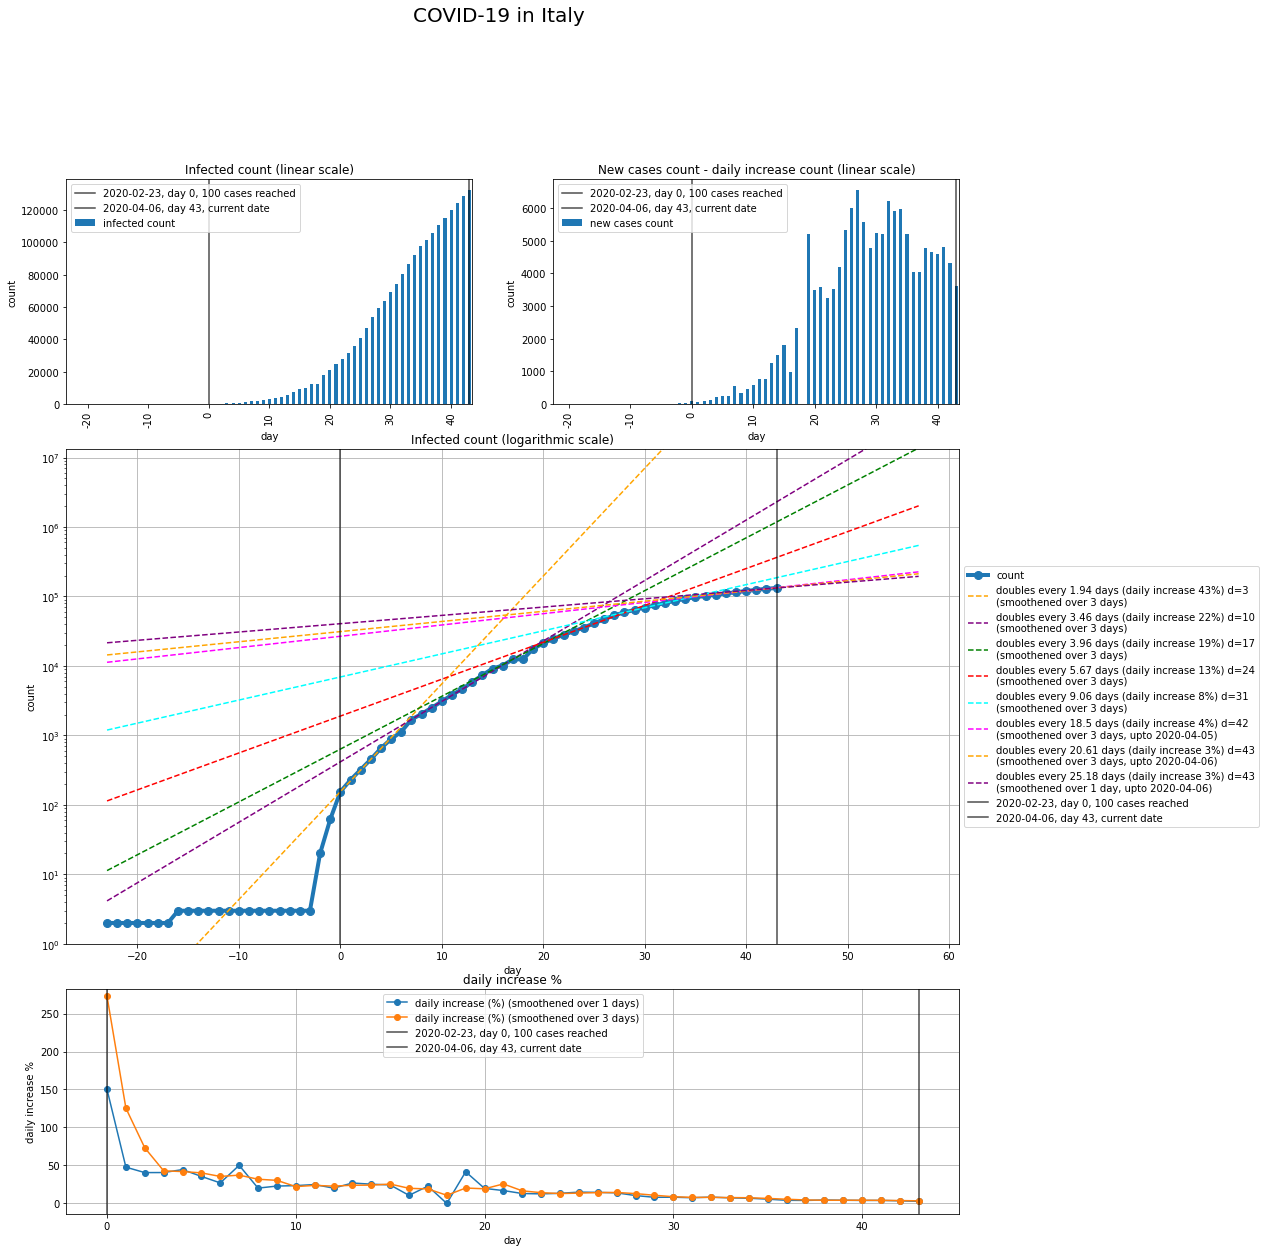
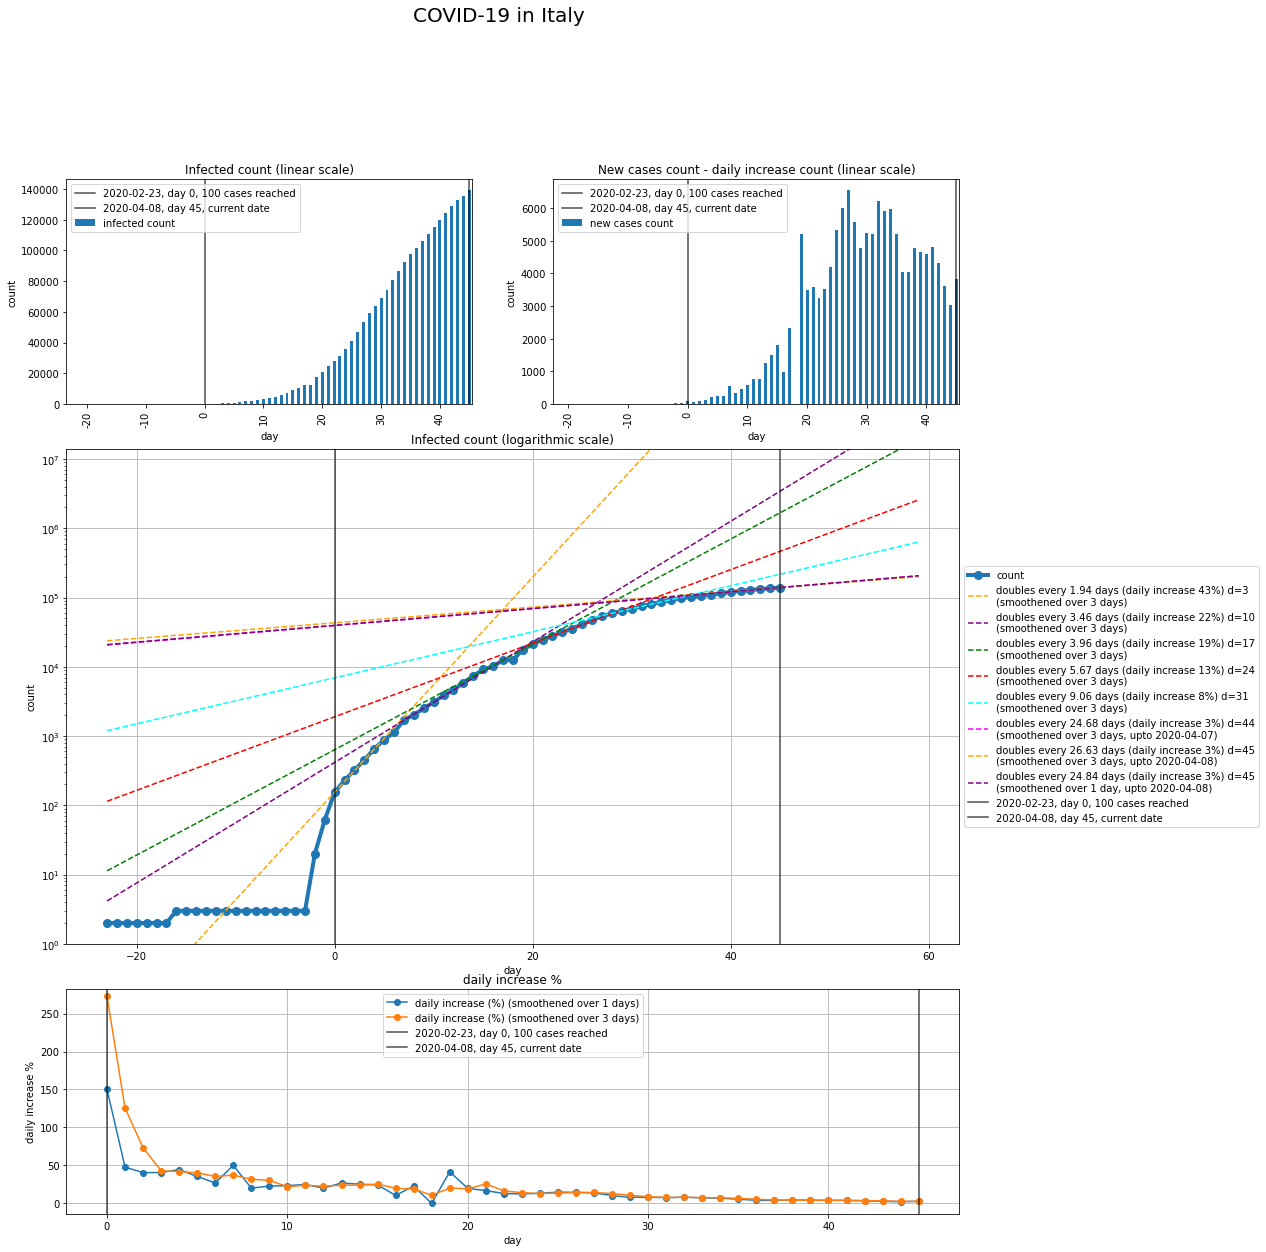
Updated the graphs and comments up to 08-04-2020

diff --git a/covid/index.html b/covid/index.html
@@ -68,7 +68,7 @@ Clustering COVID-19 around the world with DBSCAN algorithm
 <li>with ε /2 to divide the biggest clusters</li>
 <li>with 2 ε  to additionally cluster noise points outside any cluster</li>
 </ul>
-<p>From all the countries in the world I kept 65 countries which:</p>
+<p>From all the countries in the world I kept 73 countries which:</p>
 <ul>
 <li>population of at least 1 million</li>
 <li>have reached at least 10 cases per million inhabitants at least 2 weeks ago</li>
@@ -81,112 +81,171 @@ Clustering COVID-19 around the world with DBSCAN algorithm
 .tg  {border-collapse:collapse;border-spacing:0;}
 .tg td{font-family:Arial, sans-serif;font-size:14px;padding:10px 5px;border-style:solid;border-width:1px;overflow:hidden;word-break:normal;border-color:black;}
 .tg th{font-family:Arial, sans-serif;font-size:14px;font-weight:normal;padding:10px 5px;border-style:solid;border-width:1px;overflow:hidden;word-break:normal;border-color:black;}
+.tg .tg-ul38{text-align:left;vertical-align:top;position:sticky;position:-webkit-sticky;top:-1px;will-change:transform}
+.tg .tg-j1i3{border-color:inherit;text-align:left;vertical-align:top;position:sticky;position:-webkit-sticky;top:-1px;will-change:transform}
+.tg .tg-0pky{border-color:inherit;text-align:left;vertical-align:top}
 .tg .tg-0lax{text-align:left;vertical-align:top}
 </style>
 <table class="tg">
   <tr>
-    <th class="tg-0lax"><br>			cluster<br>		</th>
-    <th class="tg-0lax"><br>			countries<br>		</th>
-    <th class="tg-0lax"><br>			cluster description<br>		</th>
-    <th class="tg-0lax"><br>			mean GDP per capita ($) (nominal)<br>		</th>
-    <th class="tg-0lax"><br>			mean daily increase % week_0<br>		</th>
-    <th class="tg-0lax"><br>			mean daily increase % week_1<br>		</th>
-    <th class="tg-0lax"><br>			mean infected count per million<br>			week_0<br>		</th>
-    <th class="tg-0lax"><br>			mean infected count per million<br>			week_1<br>		</th>
+    <th class="tg-j1i3">cluster</th>
+    <th class="tg-j1i3">countries</th>
+    <th class="tg-j1i3">cluster description</th>
+    <th class="tg-j1i3">GDP per capita ($) (nominal)</th>
+    <th class="tg-j1i3">average yearly temperature (degree Celsius)</th>
+    <th class="tg-j1i3">daily increase % week_0</th>
+    <th class="tg-j1i3">daily increase % week_1</th>
+    <th class="tg-j1i3">daily increase % week_2</th>
+    <th class="tg-ul38">infected count per million week_0</th>
+    <th class="tg-ul38">infected count per million week_1</th>
+    <th class="tg-ul38">infected count per million week_2</th>
   </tr>
   <tr>
-    <td class="tg-0lax"><br>			outside cluster<br>		</td>
-    <td class="tg-0lax"><br>			Bahrain, China, Denmark, Estonia,<br>			Israel, Korea, South, Kuwait, Qatar, Singapore, Slovenia, Trinidad<br>			and Tobago, Uruguay, US<br>		</td>
-    <td class="tg-0lax"><br>			Noise points not belongig to any<br>			cluster<br>		</td>
-    <td class="tg-0lax"><br>			38553<br>		</td>
-    <td class="tg-0lax"><br>			38%<br>		</td>
-    <td class="tg-0lax"><br>			14%<br>		</td>
-    <td class="tg-0lax"><br>			79<br>		</td>
-    <td class="tg-0lax"><br>			255<br>		</td>
+    <td class="tg-0pky">outside cluster</td>
+    <td class="tg-0pky">Bahrain, China, Denmark, Djibouti, Estonia, Israel, Lebanon, Oman, Qatar, Slovenia, Trinidad and Tobago, US, Kosovo</td>
+    <td class="tg-0pky">noise points not belonging to any cluster</td>
+    <td class="tg-0pky">30331</td>
+    <td class="tg-0pky">17</td>
+    <td class="tg-0pky">38%</td>
+    <td class="tg-0pky">15%</td>
+    <td class="tg-0pky">10%</td>
+    <td class="tg-0lax">79</td>
+    <td class="tg-0lax">257</td>
+    <td class="tg-0lax">741</td>
   </tr>
   <tr>
-    <td class="tg-0lax"><br>			cluster 0<br>		</td>
-    <td class="tg-0lax"><br>			Austria, Portugal, Spain,<br>			Switzerland<br>		</td>
-    <td class="tg-0lax"><br>			Spain and alike. Countries with<br>			extremely high number of cases. Very high increases 40% in the<br>			week 0. Slowed down to 24% in week 1.<br>		</td>
-    <td class="tg-0lax"><br>			46682<br>		</td>
-    <td class="tg-0lax"><br>			40%<br>		</td>
-    <td class="tg-0lax"><br>			24%<br>		</td>
-    <td class="tg-0lax"><br>			79<br>		</td>
-    <td class="tg-0lax"><br>			352<br>		</td>
+    <td class="tg-0pky">cluster 0</td>
+    <td class="tg-0pky">Ireland, Norway, Turkey</td>
+    <td class="tg-0pky">extremely high increase in week 0 (43%) and quite efficient slowing down in week 1 (but still high - 19%)</td>
+    <td class="tg-0pky">54901</td>
+    <td class="tg-0pky">7</td>
+    <td class="tg-0pky">43%</td>
+    <td class="tg-0pky">19%</td>
+    <td class="tg-0pky">11%</td>
+    <td class="tg-0lax">92</td>
+    <td class="tg-0lax">309</td>
+    <td class="tg-0lax">658</td>
   </tr>
   <tr>
-    <td class="tg-0lax"><br>			cluster 1<br>		</td>
-    <td class="tg-0lax"><br>			Ireland, Norway, Turkey<br>		</td>
-    <td class="tg-0lax"><br>			Very similar to Spanish cluster.<br>			Very high increases in week 0. Slowing down in the week 1 more<br>			efficiently than cluster 0. <br>			<br>		</td>
-    <td class="tg-0lax"><br>			54901<br>		</td>
-    <td class="tg-0lax"><br>			43%<br>		</td>
-    <td class="tg-0lax"><br>			19%<br>		</td>
-    <td class="tg-0lax"><br>			92<br>		</td>
-    <td class="tg-0lax"><br>			309<br>		</td>
+    <td class="tg-0pky">cluster 1</td>
+    <td class="tg-0pky">Armenia, Australia, Austria, Belgium, Bosnia and Herzegovina, Chile, Croatia, Czechia, Finland, Germany, Lithuania, Moldova, Portugal, Romania, Serbia, Spain, Switzerland</td>
+    <td class="tg-0pky">High increases in week 0 (31%) followed by high increase in week 1 (18%) This is quite diverse cluster and cluster 2 and cluster 3 are subparts of it with more specific behaviour. However it contains a lot of Western European countries with moderate climate and quite high GDP</td>
+    <td class="tg-0pky">28674</td>
+    <td class="tg-0pky">9</td>
+    <td class="tg-0pky">31%</td>
+    <td class="tg-0pky">18%</td>
+    <td class="tg-0pky">13%</td>
+    <td class="tg-0lax">59</td>
+    <td class="tg-0lax">203</td>
+    <td class="tg-0lax">518</td>
   </tr>
   <tr>
-    <td class="tg-0lax"><br>			cluster 2<br>		</td>
-    <td class="tg-0lax"><br>			Belgium, Canada, France, Italy,<br>			Netherlands, Panama, United Kingdom<br>		</td>
-    <td class="tg-0lax"><br>			Italy and similar. Slightly slower<br>			than Spain but still the average growth in week 0 was 29%<br>		</td>
-    <td class="tg-0lax"><br>			39390<br>		</td>
-    <td class="tg-0lax"><br>			29%<br>		</td>
-    <td class="tg-0lax"><br>			22%<br>		</td>
-    <td class="tg-0lax"><br>			46<br>		</td>
-    <td class="tg-0lax"><br>			184<br>		</td>
+    <td class="tg-0pky">cluster 2</td>
+    <td class="tg-0pky">Canada, France, Italy, Netherlands, Panama, United Kingdom</td>
+    <td class="tg-0pky">High increases in week 0 (29%) not slowed down much in week 1 (22%). High GDP (Western Europe mostly) and moderate climate</td>
+    <td class="tg-0pky">38426</td>
+    <td class="tg-0pky">10</td>
+    <td class="tg-0pky">29%</td>
+    <td class="tg-0pky">22%</td>
+    <td class="tg-0pky">15%</td>
+    <td class="tg-0lax">46</td>
+    <td class="tg-0lax">182</td>
+    <td class="tg-0lax">482</td>
   </tr>
   <tr>
-    <td class="tg-0lax"><br>			cluster 3<br>		</td>
-    <td class="tg-0lax"><br>			Armenia, Australia, Bosnia and<br>			Herzegovina, Chile, Croatia, Czechia, Finland, Germany, Lithuania,<br>			Moldova, Romania, Serbia<br>		</td>
-    <td class="tg-0lax"><br>			Countries similar to cluster 1 and 2<br>			but with no such sharp distinction from the others.<br>		</td>
-    <td class="tg-0lax"><br>			21296<br>		</td>
-    <td class="tg-0lax"><br>			29%<br>		</td>
-    <td class="tg-0lax"><br>			16%<br>		</td>
-    <td class="tg-0lax"><br>			54<br>		</td>
-    <td class="tg-0lax"><br>			154<br>		</td>
+    <td class="tg-0pky">cluster 3</td>
+    <td class="tg-0pky">Dominican Republic, Ecuador, Iran, Latvia, Mauritius, New Zealand, North Macedonia, Sweden</td>
+    <td class="tg-0pky">Extremely high incease in week 0 (36%) slowed down more efficiently to 12%. Much lower GDP than cluster 2 and 1</td>
+    <td class="tg-0pky">18611</td>
+    <td class="tg-0pky">14</td>
+    <td class="tg-0pky">36%</td>
+    <td class="tg-0pky">12%</td>
+    <td class="tg-0pky">8%</td>
+    <td class="tg-0lax">68</td>
+    <td class="tg-0lax">152</td>
+    <td class="tg-0lax">266</td>
   </tr>
   <tr>
-    <td class="tg-0lax"><br>			cluster 4<br>		</td>
-    <td class="tg-0lax"><br>			Dominican Republic, Ecuador, Iran,<br>			Latvia, Mauritius, New Zealand, North Macedonia, Sweden<br>		</td>
-    <td class="tg-0lax"><br>			Very fast daily increase in the week<br>			0 - 36%. Slowed down a lot in the week 1. Perhaps due to lower<br>			testing capacity.<br>		</td>
-    <td class="tg-0lax"><br>			18611<br>		</td>
-    <td class="tg-0lax"><br>			36%<br>		</td>
-    <td class="tg-0lax"><br>			12%<br>		</td>
-    <td class="tg-0lax"><br>			68<br>		</td>
-    <td class="tg-0lax"><br>			152<br>		</td>
+    <td class="tg-0pky">cluster 4</td>
+    <td class="tg-0pky">Greece, Korea, South, Uruguay</td>
+    <td class="tg-0pky">High increase in week 0 (28%) followed by slowing down to 12%</td>
+    <td class="tg-0pky">22811</td>
+    <td class="tg-0pky">15</td>
+    <td class="tg-0pky">28%</td>
+    <td class="tg-0pky">12%</td>
+    <td class="tg-0pky">5%</td>
+    <td class="tg-0lax">48</td>
+    <td class="tg-0lax">105</td>
+    <td class="tg-0lax">140</td>
   </tr>
   <tr>
-    <td class="tg-0lax"><br>			cluster 5<br>		</td>
-    <td class="tg-0lax"><br>			Bulgaria, Costa Rica, Greece,<br>			Hungary, Malaysia, Poland, Saudi Arabia, Slovakia<br>		</td>
-    <td class="tg-0lax"><br>			Mostly Central Eastern Europe<br>			cluster. Consistently slower daily increases (21% and 10%) than<br>			Western&nbsp;&nbsp;Europe.<br>		</td>
-    <td class="tg-0lax"><br>			15927<br>		</td>
-    <td class="tg-0lax"><br>			21%<br>		</td>
-    <td class="tg-0lax"><br>			10%<br>		</td>
-    <td class="tg-0lax"><br>			33<br>		</td>
-    <td class="tg-0lax"><br>			67<br>		</td>
+    <td class="tg-0pky">cluster 5</td>
+    <td class="tg-0pky">Azerbaijan, Bulgaria, Costa Rica, Hungary, Malaysia, Poland, Saudi Arabia, Slovakia, Tunisia</td>
+    <td class="tg-0pky">A lot of Central Eastern European countries and countries with warm climate. Countries started slower from the beginning (21%) and decreased to 10% in week 1. Moderate average GDP.</td>
+    <td class="tg-0pky">12824</td>
+    <td class="tg-0pky">16</td>
+    <td class="tg-0pky">21%</td>
+    <td class="tg-0pky">10%</td>
+    <td class="tg-0pky">6%</td>
+    <td class="tg-0lax">33</td>
+    <td class="tg-0lax">65</td>
+    <td class="tg-0lax">94</td>
   </tr>
   <tr>
-    <td class="tg-0lax"><br>			cluster 6<br>		</td>
-    <td class="tg-0lax"><br>			Albania, Brazil, Lebanon, Peru,<br>			United Arab Emirates<br>		</td>
-    <td class="tg-0lax"><br>			Countries with warm climate.<br>			Consistently slower daily increases (14% and 15%) with little<br>			slowing down between week 0 and week 1.<br>		</td>
-    <td class="tg-0lax"><br>			13723<br>		</td>
-    <td class="tg-0lax"><br>			14%<br>		</td>
-    <td class="tg-0lax"><br>			15%<br>		</td>
-    <td class="tg-0lax"><br>			22<br>		</td>
-    <td class="tg-0lax"><br>			58<br>		</td>
+    <td class="tg-0pky">cluster 6</td>
+    <td class="tg-0pky">Albania, Brazil, Peru, United Arab Emirates</td>
+    <td class="tg-0pky">Countries which kept the increase at around 14% for 3 weeks.&nbsp;&nbsp;Warm climate.</td>
+    <td class="tg-0pky">14741</td>
+    <td class="tg-0pky">21</td>
+    <td class="tg-0pky">14%</td>
+    <td class="tg-0pky">15%</td>
+    <td class="tg-0pky">13%</td>
+    <td class="tg-0lax">22</td>
+    <td class="tg-0lax">60</td>
+    <td class="tg-0lax">167</td>
   </tr>
   <tr>
-    <td class="tg-0lax"><br>			cluster 7<br>		</td>
-    <td class="tg-0lax"><br>			Georgia, Jordan, Oman, Thailand,<br>			West Bank and Gaza<br>		</td>
-    <td class="tg-0lax"><br>			Countries with warm climate.<br>			Consistently slower daily increases (13% and 8%) with slowing down<br>			between week 0 and week 1.<br>		</td>
-    <td class="tg-0lax"><br>			7491<br>		</td>
-    <td class="tg-0lax"><br>			13%<br>		</td>
-    <td class="tg-0lax"><br>			8%<br>		</td>
-    <td class="tg-0lax"><br>			20<br>		</td>
-    <td class="tg-0lax"><br>			34<br>		</td>
+    <td class="tg-0pky">cluster 7</td>
+    <td class="tg-0pky">Argentina, Jordan, South Africa, Thailand</td>
+    <td class="tg-0pky">Similar start to cluster 6 (15%) with slowing down in week 1. Warm climate.</td>
+    <td class="tg-0pky">7041</td>
+    <td class="tg-0pky">19</td>
+    <td class="tg-0pky">15%</td>
+    <td class="tg-0pky">5%</td>
+    <td class="tg-0pky">NaN</td>
+    <td class="tg-0lax">22</td>
+    <td class="tg-0lax">32</td>
+    <td class="tg-0lax">NaN</td>
+  </tr>
+  <tr>
+    <td class="tg-0lax">cluster 8</td>
+    <td class="tg-0lax">Georgia, Japan, West Bank and Gaza</td>
+    <td class="tg-0lax">Countries which kept the increase at around 9% for 3 weeks. Very diverse economically</td>
+    <td class="tg-0lax">16111</td>
+    <td class="tg-0lax">13</td>
+    <td class="tg-0lax">9%</td>
+    <td class="tg-0lax">9%</td>
+    <td class="tg-0lax">9%</td>
+    <td class="tg-0lax">17</td>
+    <td class="tg-0lax">32</td>
+    <td class="tg-0lax">52</td>
+  </tr>
+  <tr>
+    <td class="tg-0lax">cluster 9</td>
+    <td class="tg-0lax">Kuwait, Singapore, Taiwan*</td>
+    <td class="tg-0lax">High GDP countries with warm climate. Managed to keep extremely small increases for 3 weeks (3-6%)</td>
+    <td class="tg-0lax">39360</td>
+    <td class="tg-0lax">25</td>
+    <td class="tg-0lax">6%</td>
+    <td class="tg-0lax">3%</td>
+    <td class="tg-0lax">6%</td>
+    <td class="tg-0lax">13</td>
+    <td class="tg-0lax">17</td>
+    <td class="tg-0lax">26</td>
   </tr>
 </table>
 
-<p>The clusters are ordered by count of confirmed cases per million inhabitants after 2 weeks (descending). It also means that the average daily increase % is lower for the last few clusters. It is worth noting that the cluster number seems to correlate with GDP per capita. It may indicate that fewer reported cases are result of smaller testing capacity in the poorer countries.  However, there also seems to some correlation with climate. Further clusters tend to contain warmer countries.
+<p>The clusters are ordered by count of confirmed cases per million inhabitants after 2 weeks (descending). It also means that the average daily increase % is lower for the last few clusters. It is worth noting that the cluster number seems to correlate with GDP per capita and average temperature. It may indicate that fewer reported cases are result of smaller testing capacity in the poorer countries. Or that transmission rate depends on the climate.  
 It is also worth noting that the distribution of daily increase % in the week 0 seems to be the most sparse. It tends converge for later weeks (week 1, week 2 etc.).</p>
 <h2>3. Conclusions</h2>
 <ul>
